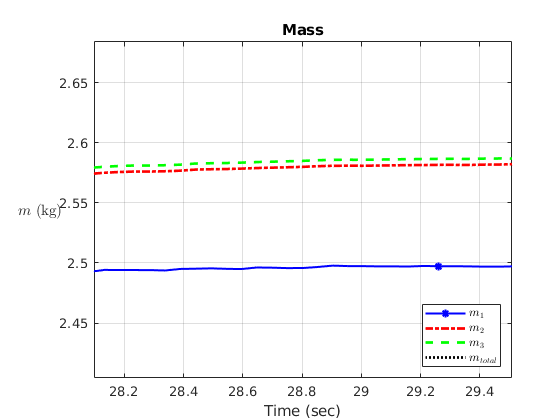
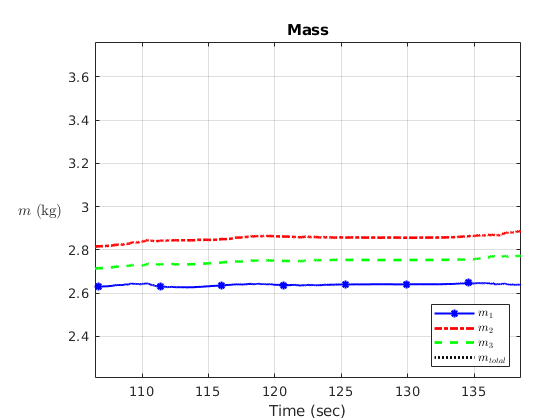
adjust the plot for wheel ball

diff --git a/DAC bag plot/estimated_combine_3_robot.m b/DAC bag plot/estimated_combine_3_robot.m
@@ -4,7 +4,7 @@ close all
 % clear all
 
 % parameters for plotting
-bag_select = "fs2D.bag";
+bag_select = "wheel_ball_fc.bag";
 
 if bag_select == "without_ICL.bag"
 %         pos_front_null = 1;
@@ -17,6 +17,8 @@ elseif  bag_select == "fs2D.bag"
     ground_truth_m = 8.0;
 elseif  bag_select == "wheel_ball_fc.bag"
     ground_truth_m = 8.42;
+elseif  bag_select == "wheel_ball_fs.bag"
+    ground_truth_m = 8.0;
 end
 
 % set ground truth
@@ -102,7 +104,7 @@ t_ = linspace(0, time_duration, length(Robot_1_mass));
 
 figure(1)
 subplot('Position', [0.17, 0.1, 0.76, 0.8]);
-plot(t_, Robot_1_mass, 'b-*', 'Linewidth', 1.5, 'MarkerIndices',1:30:length(t_))
+plot(t_, Robot_1_mass, 'b-*', 'Linewidth', 1.5, 'MarkerIndices',1:90:length(t_))
 hold on
 plot(t_, Robot_2_mass, 'r-.', 'Linewidth', 2)
 hold on
@@ -122,7 +124,7 @@ title('Mass', 'Fontsize', 11)
 
 figure(2)
 set(subplot(311), 'Position', [0.17, 0.7, 0.76, 0.2])
-plot(t_, Robot_1_inertia_Ixx, 'b-*', 'Linewidth', 1.5, 'MarkerIndices',1:30:length(t_))
+plot(t_, Robot_1_inertia_Ixx, 'b-*', 'Linewidth', 1.5, 'MarkerIndices',1:90:length(t_))
 hold on
 plot(t_, Robot_2_inertia_Ixx, 'r-.', 'Linewidth', 2)
 hold on
@@ -137,7 +139,7 @@ legend('$I_{xx} 1$', '$I_{xx} 2$', 'Interpreter', 'latex')
 title('Inertia', 'Fontsize', 11)
 
 set(subplot(312), 'Position', [0.17, 0.4, 0.76, 0.2])
-plot(t_, Robot_1_inertia_Iyy, 'b-*', 'Linewidth', 1.5, 'MarkerIndices',1:30:length(t_))
+plot(t_, Robot_1_inertia_Iyy, 'b-*', 'Linewidth', 1.5, 'MarkerIndices',1:90:length(t_))
 hold on
 plot(t_, Robot_2_inertia_Iyy, 'r-.', 'Linewidth', 2)
 hold on
@@ -150,7 +152,7 @@ set(y_label, 'Units', 'Normalized', 'Position', [-0.13, 0.41]);
 legend('$I_{yy} 1$', '$I_{yy} 2$', 'Interpreter', 'latex')
 
 set(subplot(313), 'Position', [0.17, 0.1, 0.76, 0.2])
-plot(t_, Robot_1_inertia_Izz, 'b-*', 'Linewidth', 1.5, 'MarkerIndices',1:30:length(t_))
+plot(t_, Robot_1_inertia_Izz, 'b-*', 'Linewidth', 1.5, 'MarkerIndices',1:90:length(t_))
 hold on
 plot(t_, Robot_2_inertia_Izz, 'r-.', 'Linewidth', 2)
 hold on
